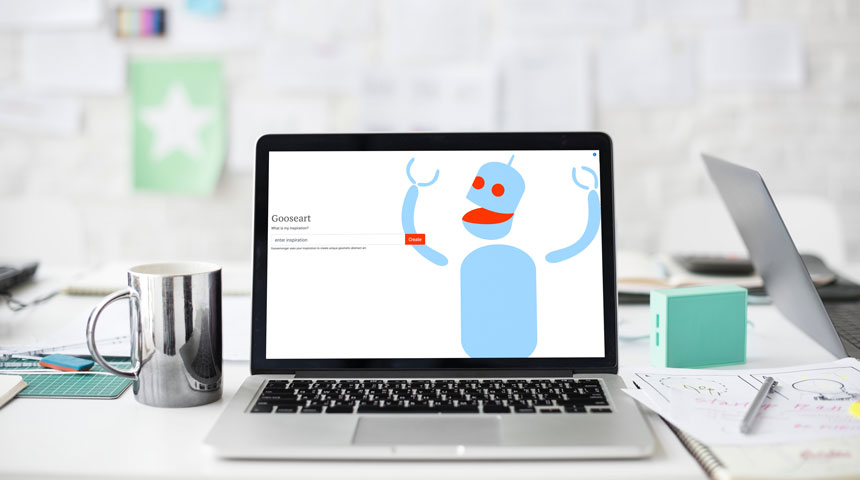
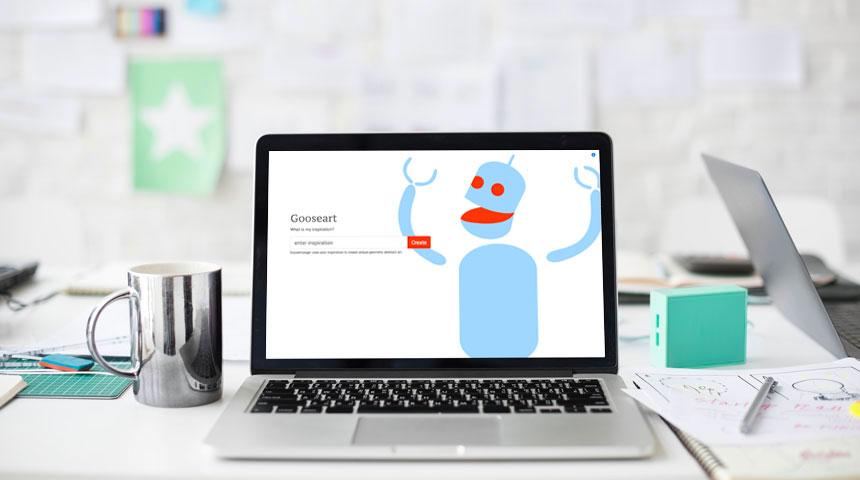
cleanup

diff --git a/gooseart/index.html b/gooseart/index.html
@@ -28,9 +28,9 @@
 		<main>
 			<section class="landing">
 				<span class="btn btn-link float-right" data-toggle="modal" data-target="#aboutModal" title="Learn about this page."><i class="fas fa-info-circle"></i></span>
-				<div class="container-fluid">
+				<div class="container">
 					<div class="row">
-	   					<div class="col-sm">
+	   					<div class="col-sm-8 col-md-6">
 							<h1>Gooseart</h1>
 							<p>What is my inspiration?</p>
 							<form id="inspiration-form">
@@ -43,7 +43,7 @@
 							</form>
 							<small>Goosemonger uses your inspiration to create unique geometic abstract art.</small>
 						</div>
-						<div class="col-sm">
+						<div class="col-sm-4 col-md-6">
 							<img src="images/goosemonger.svg" alt="Goosemonger">
 						</div>
 					</div>

diff --git a/gooseart/css/style.css b/gooseart/css/style.css
@@ -59,7 +59,7 @@ section {
 }
 @media only screen and (orientation: portrait) {
 	.thought h2 {
-		margin: 30vh auto
+		margin: 30vh auto 30px;
 	}
 }
 @keyframes blink {

diff --git a/index.php b/index.php
@@ -322,11 +322,11 @@ _________________________________________________________ -->
 								</div>
 								<h3 class="heading">Experience</h3>
 								<p>SR. UI/UX Designer @ <a href="https://www.globalfit.com" title="Where Wellness Meets Rewards" target="_blank" rel="noopener noreferrer">GlobalFit</a>
-								<br>MAY 2016 - Present</p>
+								<br>May 2016 - Present</p>
 								<p>Digital Marketing Manager @ <a href="https://www.globalfit.com" title="Where Wellness Meets Rewards" target="_blank" rel="noopener noreferrer">GlobalFit</a>
-								<br>MAY 2013 - May 2016</p>
+								<br>May 2013 - May 2016</p>
 								<p>Marketing Coordinator @ <a href="https://www.hbinstrument.com" title="time, temperature or density H-B Instrument" target="_blank" rel="noopener noreferrer">H-B Instrument</a>
-								<br>Sep 2011 - May 2013</p>
+								<br>September 2011 - May 2013</p>
 							</div>
 
 							<div class="col-md-4" data-animate="fadeInUp">
